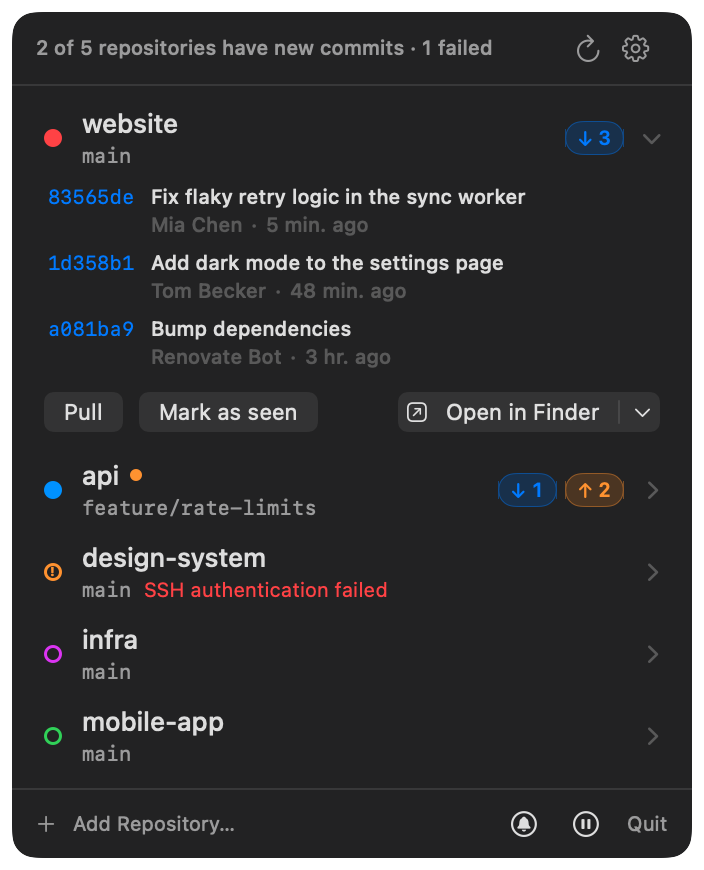
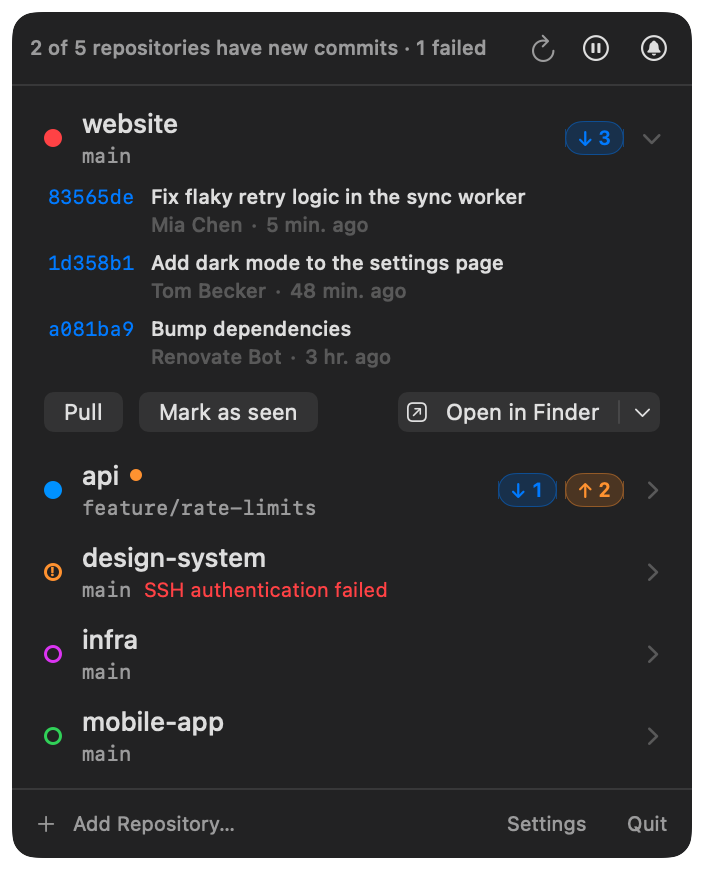
Let the menu bar's dot limit be chosen, and put it in the right order
The limit was a hard-coded eight, which is why eleven repositories collapsed to
a single dot with no way to change it. Settings › Menu Bar now takes any number
from 1 to 30, typed or stepped; the explanation underneath says what it means
for this Mac rather than in the abstract.

Two bugs came out of making it adjustable:

- The dots were built from the unsorted record list while the panel used the
  sorted one, so the bar and the list disagreed about which repository came
  first. Both read the same sorted list now.
- Over the limit, every idle dot used to be dropped and only repositories with
  news were drawn — so on a quiet Mac "show at most 4" drew nothing at all. The
  limit is filled from the top of the sorted list instead, and the rest is
  counted after it. Asking for four dots draws four.

The panel's two bars were also split down the wrong line: refresh sat in the
header while the pause that stops it sat in the footer. The header now carries
everything about the current run — refresh, pause, silence — and the footer
what manages the app: add a repository, Settings, Quit.

diff --git a/RepoBar/Features/Panel/PanelHeader.swift b/RepoBar/Features/Panel/PanelHeader.swift
@@ -3,7 +3,6 @@ import SwiftUI
 struct PanelHeader: View {
     @Environment(AppModel.self) private var model
     @Environment(UpdateController.self) private var updates
-    @Environment(\.openSettings) private var openSettings
 
     var body: some View {
         VStack(spacing: 0) {
@@ -27,6 +26,11 @@ struct PanelHeader: View {
 
     private var showsTimestamp: Bool {
         model.lastRefresh != nil && !model.isRefreshing && !model.records.isEmpty
+    }
+
+    private var pauseHelp: String {
+        guard model.isPaused else { return "Pause checks" }
+        return model.pausedUntilLabel.map { "Checks paused until \($0)" } ?? "Checks paused"
     }
 
     private var headerRow: some View {
@@ -61,25 +65,44 @@ struct PanelHeader: View {
             .help("Refresh all (⌘R)")
             .disabled(model.records.isEmpty)
 
-            SettingsLink {
-                Image(systemName: "gearshape").frame(width: 16, height: 16)
+            Menu {
+                if model.isPaused {
+                    Section(model.pausedUntilLabel.map { "Paused until \($0)" } ?? "Paused") {
+                        Button("Resume Checks") { model.resume() }
+                    }
+                    Divider()
+                }
+                Button("Pause for 1 hour") { model.pause(for: .seconds(3600)) }
+                Button("Pause for 4 hours") { model.pause(for: .seconds(4 * 3600)) }
+                Button("Pause until resumed") { model.pause(for: nil) }
+            } label: {
+                Image(systemName: model.isPaused ? "play.circle.fill" : "pause.circle")
+                    .frame(width: 16, height: 16)
             }
-            .simultaneousGesture(TapGesture().onEnded {
-                model.closePanel?()
-                AppActivation.bringSettingsToFront()
-            })
-            .help("Settings (⌘,)")
+            .menuIndicator(.hidden)
+            .fixedSize()
+            .help(pauseHelp)
 
-            // ⌘, from inside the panel.
-            Button("") {
-                model.closePanel?()
-                openSettings()
-                AppActivation.bringSettingsToFront()
+            if model.settings.notificationsEnabled {
+                Menu {
+                    if let until = model.snoozedUntilLabel {
+                        Section("Silenced until \(until)") {
+                            Button("Turn Notifications Back On") { model.resumeNotifications() }
+                        }
+                        Divider()
+                    }
+                    ForEach(MuteWindow.allCases, id: \.self) { window in
+                        Button("Silence \(window.title)") { model.snoozeNotifications(for: window.duration()) }
+                    }
+                } label: {
+                    Image(systemName: model.isSnoozed ? "bell.slash.circle.fill" : "bell.circle")
+                        .frame(width: 16, height: 16)
+                }
+                .menuIndicator(.hidden)
+                .fixedSize()
+                .help(model.snoozedUntilLabel.map { "Notifications silenced until \($0)" } ?? "Silence notifications for a while")
             }
-            .keyboardShortcut(",", modifiers: .command)
-            .frame(width: 0, height: 0)
-            .opacity(0)
-            .accessibilityHidden(true)
+
         }
         .buttonStyle(.borderless)
         .foregroundStyle(.secondary)

diff --git a/RepoBarTests/StatusItemLayoutTests.swift b/RepoBarTests/StatusItemLayoutTests.swift
@@ -31,15 +31,16 @@ struct StatusItemLayoutTests {
         for index in 0..<12 { specs.append((RepoColor.allCases[index % 12], index.isMultiple(of: 2) ? 1 : 0, false)) }
         let state = MenuBarState(repos: dots(specs))
         let layout = StatusItemLayout.make(from: state)
-        #expect(layout.dots.count == 6)
-        #expect(layout.dots.allSatisfy { $0.fill == .filled })
-        #expect(layout.overflow == 0)
+        // The limit is filled from the top of the list and the rest is counted.
+        #expect(layout.dots.count == StatusItemLayout.defaultMaxDots)
+        #expect(layout.overflow == 12 - StatusItemLayout.defaultMaxDots)
 
-        var allChanged = state
-        allChanged.repos = dots(specs.map { ($0.0, 1, false) })
-        let overflow = StatusItemLayout.make(from: allChanged)
-        #expect(overflow.dots.count == 6)
-        #expect(overflow.overflow == 6)
+        var hidingIdle = state
+        hidingIdle.showIdleDots = false
+        let changedOnly = StatusItemLayout.make(from: hidingIdle)
+        #expect(changedOnly.dots.count == 6, "six of the twelve have news")
+        #expect(changedOnly.dots.allSatisfy { $0.fill == .filled })
+        #expect(changedOnly.overflow == 0)
     }
 
     @Test func countStyle() {
@@ -156,6 +157,56 @@ struct StatusItemDimmingTests {
         let layout = StatusItemLayout.make(from: state)
         #expect(layout.isDimmed)
         #expect(layout.glyph == .branch)
+    }
+}
+
+@Suite("Dot limit")
+struct DotLimitTests {
+    func state(_ count: Int, unseen: Set<Int> = [], max: Int) -> MenuBarState {
+        var state = MenuBarState(repos: (0..<count).map {
+            RepoDot(id: UUID(), color: .blue, unseen: unseen.contains($0) ? 1 : 0, hasError: false)
+        })
+        state.style = .dots
+        state.maxDots = max
+        return state
+    }
+
+    @Test func everythingFitsUnderTheLimit() {
+        let layout = StatusItemLayout.make(from: state(6, max: 8))
+        #expect(layout.dots.count == 6)
+        #expect(layout.overflow == 0)
+    }
+
+    @Test func overTheLimitTheBarStaysFull() {
+        let layout = StatusItemLayout.make(from: state(11, unseen: [2, 5], max: 8))
+        #expect(layout.dots.count == 8, "asking for eight dots must draw eight")
+        #expect(layout.overflow == 3)
+    }
+
+    @Test func aQuietMacStillShowsDots() {
+        // The bug this replaced: with nothing new, "show at most 4" drew nothing at all.
+        let layout = StatusItemLayout.make(from: state(6, max: 4))
+        #expect(layout.dots.count == 4)
+        #expect(layout.overflow == 2)
+    }
+
+    @Test func raisingTheLimitShowsThemAll() {
+        let layout = StatusItemLayout.make(from: state(11, unseen: [2, 5], max: 12))
+        #expect(layout.dots.count == 11, "the limit is what decides, not a fixed 8")
+        #expect(layout.overflow == 0)
+    }
+
+    @Test func hidingIdleRepositoriesCountsOnlyTheChangedOnes() {
+        var quiet = state(20, unseen: Set(0..<9), max: 4)
+        quiet.showIdleDots = false
+        let layout = StatusItemLayout.make(from: quiet)
+        #expect(layout.dots.count == 4)
+        #expect(layout.overflow == 5, "9 changed, 4 drawn")
+    }
+
+    @Test func aLimitOfZeroIsNotAllowedToBlankTheBar() {
+        let layout = StatusItemLayout.make(from: state(3, unseen: [0], max: 0))
+        #expect(layout.dots.count == 1)
     }
 }
 

diff --git a/RepoBar/Features/Panel/PanelFooter.swift b/RepoBar/Features/Panel/PanelFooter.swift
@@ -2,6 +2,7 @@ import SwiftUI
 
 struct PanelFooter: View {
     @Environment(AppModel.self) private var model
+    @Environment(\.openSettings) private var openSettings
 
     var body: some View {
         HStack(spacing: 10) {
@@ -17,41 +18,25 @@ struct PanelFooter: View {
 
             Spacer()
 
-            if model.settings.notificationsEnabled {
-                Menu {
-                    if let until = model.snoozedUntilLabel {
-                        Section("Silenced until \(until)") {
-                            Button("Turn Notifications Back On") { model.resumeNotifications() }
-                        }
-                        Divider()
-                    }
-                    ForEach(MuteWindow.allCases, id: \.self) { window in
-                        Button("Silence \(window.title)") { model.snoozeNotifications(for: window.duration()) }
-                    }
-                } label: {
-                    Image(systemName: model.isSnoozed ? "bell.slash.circle.fill" : "bell.circle")
-                }
-                .menuIndicator(.hidden)
-                .fixedSize()
-                .help(model.snoozedUntilLabel.map { "Notifications silenced until \($0)" } ?? "Silence notifications for a while")
+            SettingsLink {
+                Text("Settings")
             }
+            .simultaneousGesture(TapGesture().onEnded {
+                model.closePanel?()
+                AppActivation.bringSettingsToFront()
+            })
+            .help("Settings (⌘,)")
 
-            Menu {
-                if model.isPaused {
-                    Section(model.pausedUntilLabel.map { "Paused until \($0)" } ?? "Paused") {
-                        Button("Resume Checks") { model.resume() }
-                    }
-                    Divider()
-                }
-                Button("Pause for 1 hour") { model.pause(for: .seconds(3600)) }
-                Button("Pause for 4 hours") { model.pause(for: .seconds(4 * 3600)) }
-                Button("Pause until resumed") { model.pause(for: nil) }
-            } label: {
-                Image(systemName: model.isPaused ? "play.circle.fill" : "pause.circle")
+            // ⌘, from inside the panel.
+            Button("") {
+                model.closePanel?()
+                openSettings()
+                AppActivation.bringSettingsToFront()
             }
-            .menuIndicator(.hidden)
-            .fixedSize()
-            .help(pauseHelp)
+            .keyboardShortcut(",", modifiers: .command)
+            .frame(width: 0, height: 0)
+            .opacity(0)
+            .accessibilityHidden(true)
 
             Button("Quit") { NSApp.terminate(nil) }
                 .keyboardShortcut("q", modifiers: .command)
@@ -63,8 +48,4 @@ struct PanelFooter: View {
         .frame(height: 34)
     }
 
-    private var pauseHelp: String {
-        guard model.isPaused else { return "Pause checks" }
-        return model.pausedUntilLabel.map { "Checks paused until \($0)" } ?? "Checks paused"
-    }
 }

diff --git a/RepoBar/Features/Settings/MenuBarSettingsView.swift b/RepoBar/Features/Settings/MenuBarSettingsView.swift
@@ -3,6 +3,15 @@ import SwiftUI
 struct MenuBarSettingsView: View {
     @Environment(AppModel.self) private var model
 
+    /// Says what the limit means for this Mac, not in the abstract: with more
+    /// repositories than dots, only the ones worth looking at are drawn.
+    static func limitExplanation(max: Int, repositories: Int) -> String {
+        guard repositories > max else {
+            return "All \(repositories == 0 ? "your" : "\(repositories)") repositories fit, so every one of them gets a dot."
+        }
+        return "You have \(repositories) repositories: the \(max) that need you most get a dot, and the remaining \(repositories - max) are counted after them."
+    }
+
     var body: some View {
         @Bindable var settings = model.settings
         Form {
@@ -22,7 +31,18 @@ struct MenuBarSettingsView: View {
                             ForEach(IdleDotStyle.allCases, id: \.self) { Text($0.displayName).tag($0) }
                         }
                     }
-                    Text("Up to \(StatusItemLayout.maxFullDots) repositories are shown as dots; with more, only the ones with new commits appear.")
+                    HStack {
+                        Text("Show at most")
+                        Spacer(minLength: 8)
+                        TextField("", value: $settings.maxMenuBarDots, format: .number)
+                            .labelsHidden()
+                            .multilineTextAlignment(.trailing)
+                            .frame(width: 46)
+                        Stepper("", value: $settings.maxMenuBarDots, in: StatusItemLayout.maxDotsRange)
+                            .labelsHidden()
+                        Text("dots").foregroundStyle(.secondary)
+                    }
+                    Text(Self.limitExplanation(max: settings.maxMenuBarDots, repositories: model.records.count))
                         .font(.caption).foregroundStyle(.secondary)
                 }
             }

diff --git a/RepoBar/Features/StatusItem/StatusItemLayout.swift b/RepoBar/Features/StatusItem/StatusItemLayout.swift
@@ -11,8 +11,10 @@ nonisolated struct StatusItemLayout: Equatable, Sendable {
         var fill: Fill
     }
 
-    static let maxFullDots = 8
-    static let maxChangedDots = 6
+    /// Default for `MenuBarState.maxDots`; the user picks their own in Settings.
+    static let defaultMaxDots = 8
+    /// Past this the dots stop being readable and macOS truncates the item anyway.
+    static let maxDotsRange = 1...30
 
     var glyph: Glyph = .branch
     var glyphOpacity: Double = 1
@@ -38,14 +40,15 @@ nonisolated struct StatusItemLayout: Equatable, Sendable {
 
         switch state.style {
         case .dots:
-            let showAll = state.showIdleDots && state.repos.count <= maxFullDots
-            if showAll {
-                layout.dots = state.repos.map { dot(for: $0, idleStyle: state.idleDotStyle) }
-            } else {
-                let changed = state.repos.filter { $0.hasChanges || $0.hasError }
-                layout.dots = changed.prefix(maxChangedDots).map { dot(for: $0, idleStyle: state.idleDotStyle) }
-                layout.overflow = max(0, changed.count - maxChangedDots)
-            }
+            // `repos` arrives in the panel's order — new commits first, then errors,
+            // then by name — so taking the first `limit` keeps what matters most and
+            // counts the rest. Asking for four dots always draws four, if there are four.
+            let limit = max(1, state.maxDots)
+            let candidates = state.showIdleDots
+                ? state.repos
+                : state.repos.filter { $0.hasChanges || $0.hasError }
+            layout.dots = candidates.prefix(limit).map { dot(for: $0, idleStyle: state.idleDotStyle) }
+            layout.overflow = max(0, candidates.count - limit)
         case .count:
             let count = state.badgeMode == .repositories ? state.unseenRepoCount : state.unseenCommitCount
             if count > 0 {

diff --git a/RepoBar/App/AppSettings.swift b/RepoBar/App/AppSettings.swift
@@ -39,6 +39,15 @@ final class AppSettings {
     var menuBarStyle: MenuBarStyle { didSet { set(menuBarStyle.rawValue, "menuBarStyle") } }
     var showIdleDots: Bool { didSet { set(showIdleDots, "showIdleDots") } }
     var idleDotStyle: IdleDotStyle { didSet { set(idleDotStyle.rawValue, "idleDotStyle") } }
+    var maxMenuBarDots: Int {
+        didSet {
+            // The field lets anything be typed; keep it inside what can be drawn.
+            let clamped = min(StatusItemLayout.maxDotsRange.upperBound,
+                              max(StatusItemLayout.maxDotsRange.lowerBound, maxMenuBarDots))
+            if clamped != maxMenuBarDots { maxMenuBarDots = clamped; return }
+            set(maxMenuBarDots, "maxMenuBarDots")
+        }
+    }
     var badgeMode: BadgeMode { didSet { set(badgeMode.rawValue, "badgeMode") } }
 
     /// Called after any engine-relevant setting changes.
@@ -81,6 +90,7 @@ final class AppSettings {
         menuBarStyle = MenuBarStyle(rawValue: defaults.string(forKey: "menuBarStyle") ?? "") ?? .dots
         showIdleDots = defaults.object(forKey: "showIdleDots") as? Bool ?? true
         idleDotStyle = IdleDotStyle(rawValue: defaults.string(forKey: "idleDotStyle") ?? "") ?? .ring
+        maxMenuBarDots = defaults.object(forKey: "maxMenuBarDots") as? Int ?? StatusItemLayout.defaultMaxDots
         badgeMode = BadgeMode(rawValue: defaults.string(forKey: "badgeMode") ?? "") ?? .repositories
     }
 

diff --git a/RepoBarTests/OpenInTests.swift b/RepoBarTests/OpenInTests.swift
@@ -156,3 +156,31 @@ struct SilenceLabelTests {
         #expect(label.count > 8, "includes a date, not just a time")
     }
 }
+
+@MainActor
+@Suite("Dot limit setting")
+struct DotLimitSettingTests {
+    func makeSettings() -> AppSettings {
+        AppSettings(defaults: UserDefaults(suiteName: "com.aliyar.RepoBar.dotlimit")!)
+    }
+
+    @Test func typedNumbersAreKeptInRange() {
+        let settings = makeSettings()
+        settings.maxMenuBarDots = 999
+        #expect(settings.maxMenuBarDots == StatusItemLayout.maxDotsRange.upperBound)
+
+        settings.maxMenuBarDots = 0
+        #expect(settings.maxMenuBarDots == StatusItemLayout.maxDotsRange.lowerBound)
+
+        settings.maxMenuBarDots = -4
+        #expect(settings.maxMenuBarDots == StatusItemLayout.maxDotsRange.lowerBound)
+    }
+
+    @Test func anythingInsideTheRangeIsKeptAsTyped() {
+        let settings = makeSettings()
+        for value in [1, 3, 7, 11, 30] {
+            settings.maxMenuBarDots = value
+            #expect(settings.maxMenuBarDots == value, "\(value) is a legal number of dots")
+        }
+    }
+}

diff --git a/RepoBar/Features/StatusItem/MenuBarState.swift b/RepoBar/Features/StatusItem/MenuBarState.swift
@@ -53,6 +53,8 @@ nonisolated struct MenuBarState: Equatable, Sendable {
     var style: MenuBarStyle = .dots
     var showIdleDots = true
     var idleDotStyle: IdleDotStyle = .ring
+    /// How many dots the menu bar may show before it falls back to the changed ones only.
+    var maxDots = StatusItemLayout.defaultMaxDots
     var badgeMode: BadgeMode = .repositories
 
     var unseenRepoCount: Int { repos.filter(\.hasChanges).count }
@@ -88,6 +90,7 @@ nonisolated struct MenuBarState: Equatable, Sendable {
         state.badgeMode = settings.badgeMode
         state.showIdleDots = settings.showIdleDots
         state.idleDotStyle = settings.idleDotStyle
+        state.maxDots = settings.maxDots
         return state
     }
 }

diff --git a/RepoBar/App/AppModel.swift b/RepoBar/App/AppModel.swift
@@ -71,13 +71,14 @@ final class AppModel {
 
     var menuBar: MenuBarState {
         MenuBarState(
-            repos: items.map(\.dot),
+            repos: sortedItems().map(\.dot),
             isChecking: isRefreshing,
             isPaused: isPaused,
             isOffline: !isOnline,
             style: settings.menuBarStyle,
             showIdleDots: settings.showIdleDots,
             idleDotStyle: settings.idleDotStyle,
+            maxDots: settings.maxMenuBarDots,
             badgeMode: settings.badgeMode
         )
     }
